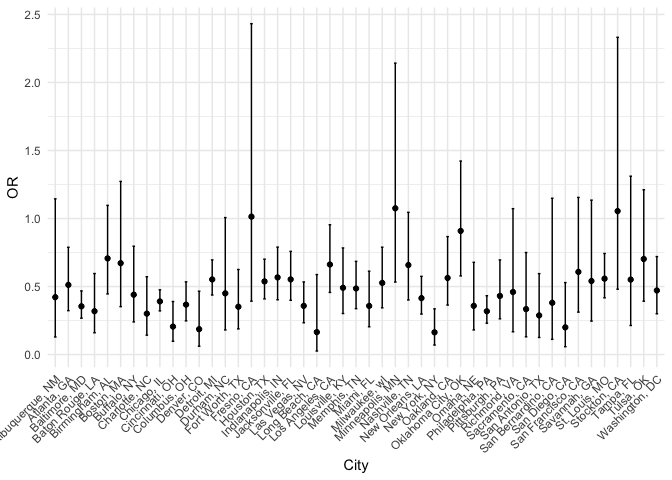
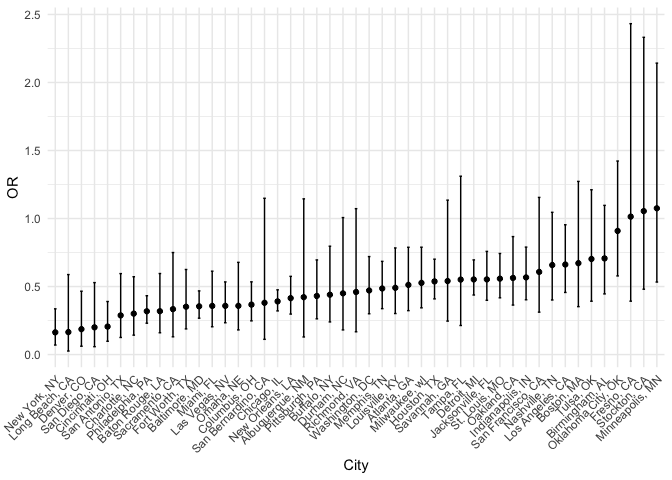
revised Q2

diff --git a/p8105_hw6_sq2266.md b/p8105_hw6_sq2266.md
@@ -1,10 +1,11 @@
-Homework 1 Solution
+Homework 6
 ================
 
 ``` r
 knitr::opts_chunk$set(echo = TRUE)
 library(tidyverse)
 library(modelr)
+library(p8105.datasets)
 set.seed(1)
 ```
 
@@ -102,6 +103,8 @@ homicide_df = read.csv("homicide-data.csv")|>
   janitor::clean_names()
 ```
 
+### creating a city_state variable
+
 ``` r
 homicide_clean = 
   homicide_df |>
@@ -129,6 +132,8 @@ md_df =
   homicide_clean |>
   filter(city_state == "Baltimore, MD")
 ```
+
+### making logistic regression
 
 ``` r
 glm_fit =
@@ -172,7 +177,7 @@ city_df =
  
   filter(term == "victim_sexMale") |>
   
-  select(city_state, estimate, conf.low, conf.high)
+  select(city_state, or= estimate, conf.low, conf.high)
 ```
 
     ## Warning: There were 43 warnings in `mutate()`.
@@ -187,15 +192,33 @@ city_df =
 ``` r
 city_or_df =
   city_df |>
-  arrange(desc(estimate)) |>
+  arrange(desc(or)) |>
   mutate(city_state = factor(city_state, levels = city_state))
+
+city_or_df
 ```
+
+    ## # A tibble: 47 × 4
+    ## # Groups:   city_state [47]
+    ##    city_state           or conf.low conf.high
+    ##    <fct>             <dbl>    <dbl>     <dbl>
+    ##  1 Minneapolis, MN   1.08     0.533     2.14 
+    ##  2 Stockton, CA      1.05     0.480     2.33 
+    ##  3 Fresno, CA        1.01     0.392     2.43 
+    ##  4 Oklahoma City, OK 0.909    0.578     1.42 
+    ##  5 Birmingham, AL    0.707    0.446     1.10 
+    ##  6 Tulsa, OK         0.703    0.392     1.21 
+    ##  7 Boston, MA        0.672    0.352     1.27 
+    ##  8 Los Angeles, CA   0.662    0.457     0.954
+    ##  9 Nashville, TN     0.658    0.401     1.05 
+    ## 10 San Francisco, CA 0.608    0.312     1.16 
+    ## # ℹ 37 more rows
 
 ### OR plot
 
 ``` r
-or_plot =
-  ggplot(city_or_df, aes(x = city_state, y = estimate)) +
+or_plot = 
+  ggplot(city_or_df,aes(x = reorder(city_state, or), y = or)) +
   geom_point() + 
   geom_errorbar(aes(ymin = conf.low, ymax = conf.high), width = 0.2) + 
   labs(
@@ -203,12 +226,17 @@ or_plot =
     y = "OR"
   ) +
   theme_minimal()+
-  theme(axis.text.x = element_text(angle = 45, hjust = 1))  #this plot does not show the order from greatest to lowest
+  theme(axis.text.x = element_text(angle = 45, hjust = 1))
 
 or_plot
 ```
 
 ![](p8105_hw6_sq2266_files/figure-gfm/unnamed-chunk-16-1.png)<!-- -->
+Comment: New York, NY has the lowest OR for solving homicides comparing
+male victims to female victims keeping all other variables fixed, and
+Minneapolis, MN has the highest OR for solving homicides comparing male
+victims to female victims keeping all other variables fixed. Fresno, CA
+has large CI.
 
 ## Q3
 
